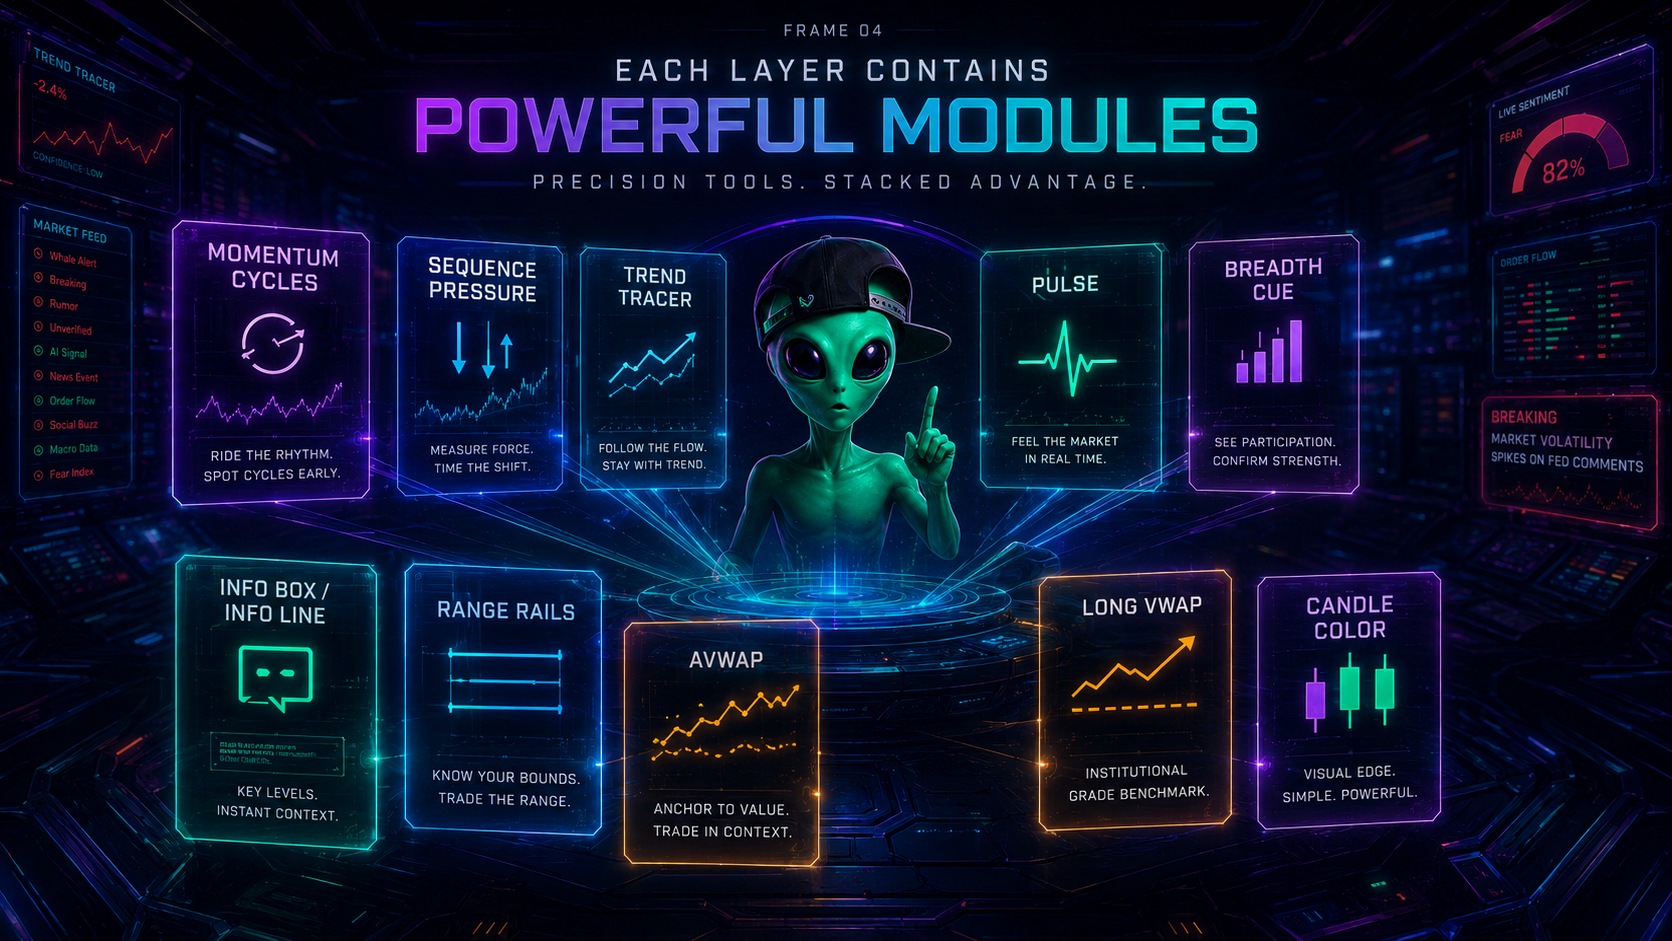
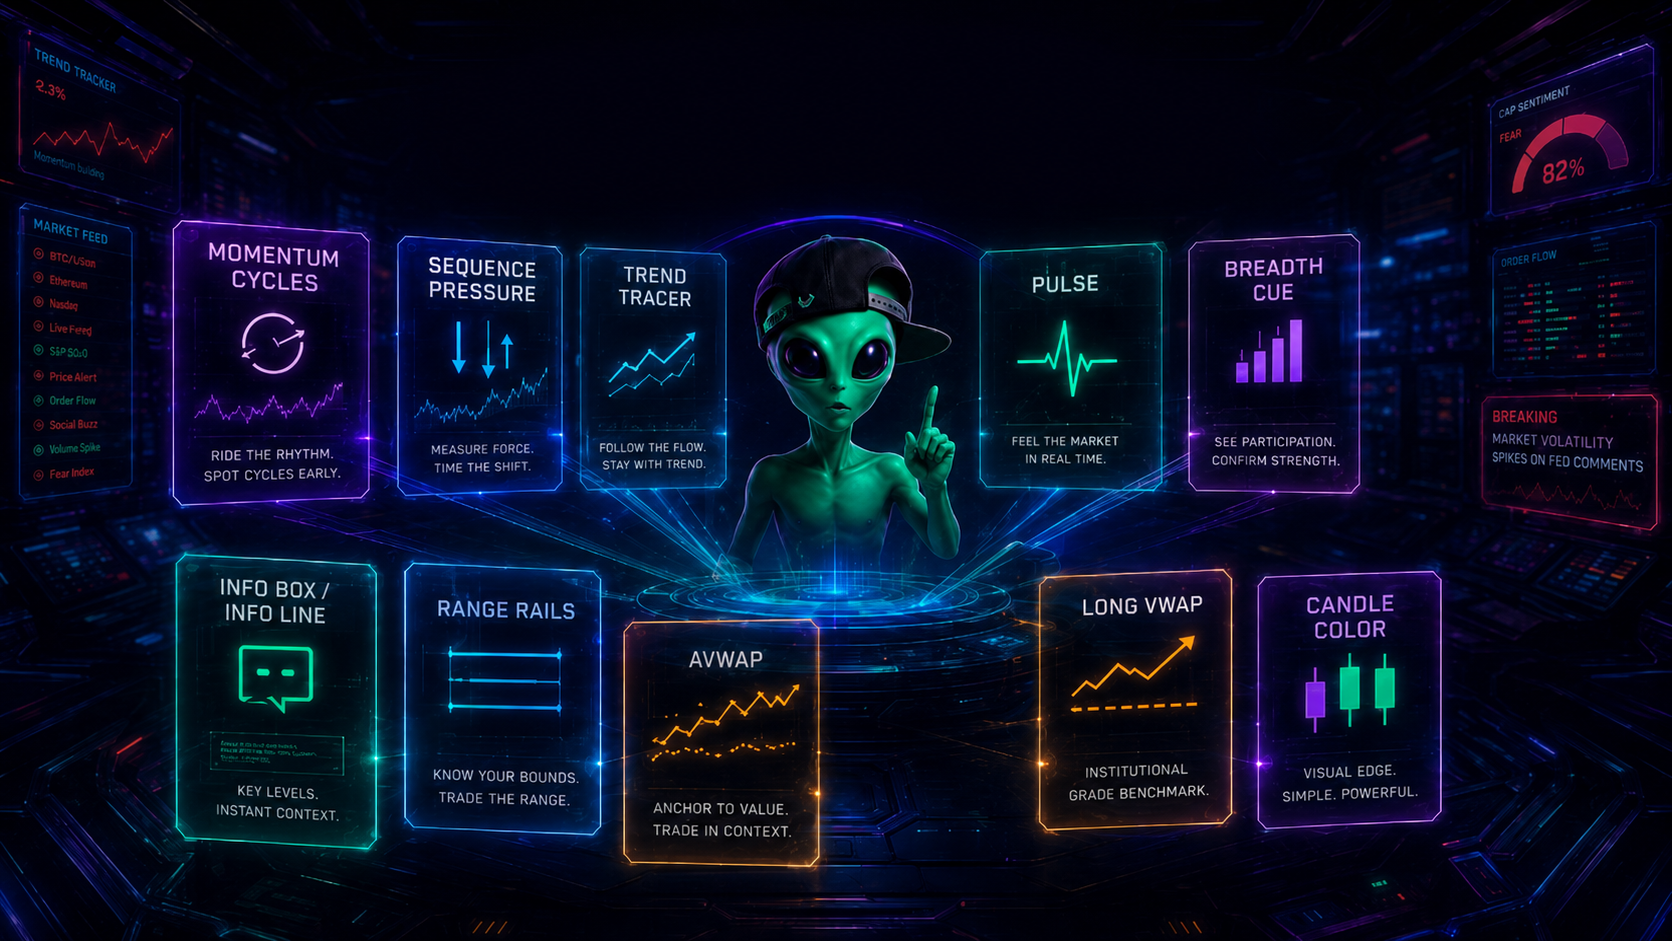
update image

diff --git a/resources/js/Pages/Modules/Index.tsx b/resources/js/Pages/Modules/Index.tsx
@@ -20,7 +20,7 @@ export default function ModulesIndex({
             <PublicHeroFrame>
                 <div className="relative z-10 flex w-[102vw] translate-x-[-2%] -translate-y-[10%] justify-center mix-blend-lighten">
                     <img
-                        src="/design/assets/images/bg-modules.png"
+                        src="/design/assets/images/bg-modules.jpg"
                         className=""
                         alt=""
                     />